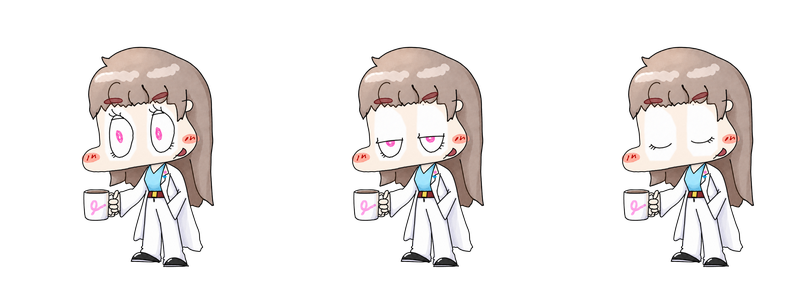
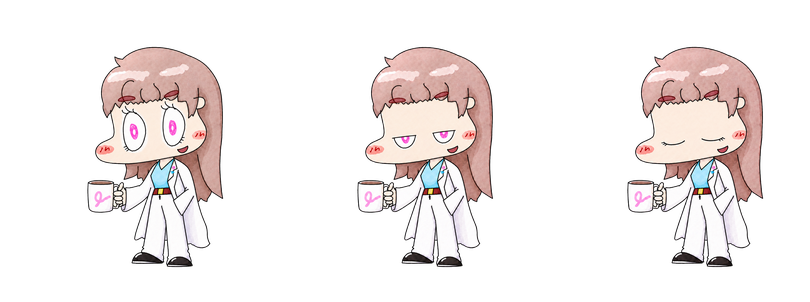
feat(bolttagu): map the v10 event sets onto Engram's display hints
sprite-pack-v10 adds seven three-frame event sets -- searching, writing,
waiting, speaking, listening, success, error -- repolishes idle and wondering
against alert's line weight, and cuts wondering from eight frames to three.

Every working hint now gets its own animation instead of collapsing onto
wondering. The mapping follows the intent the pack states in its own
event-map.json, and the timings are its sprites.json values verbatim:

  input       -> listening    generating -> speaking
  search      -> searching    thought    -> wondering
  memory      -> writing      error/provider_error -> error
  success     -> success one-shot, then idle

memory -> writing is a judgment call. Engram's memory category covers note
reads and writes alike, and search already owns "look something up"; keeping
them visually distinct is the reason both hints exist.

success is the pack's own one-shot ("play once, then idle"), which the existing
one-shot mechanism handles as-is. That retires the exit-on-provider_error hack:
failure hints now loop a real error animation, so a failure stays on screen
instead of playing once and vanishing.

Only reachable states are packed. The pack's "waiting" and "exit" have no
display hint or lifecycle hook to drive them, and a test now fails if an unused
sheet is shipped. Assets 552 KiB to 1480 KiB for eleven animation states; the
union crop is unchanged again at (87, 13, 1167, 1219), so the 270x302 cell and
feet anchor still hold.

Changed region(s): [[0.4321, 0.149, 0.6173, 0.894], [0.7716, 0.149, 0.9568, 0.894], [0.0926, 0.149, 0.2778, 0.894]]

diff --git a/tests/test_bolttagu_2d.py b/tests/test_bolttagu_2d.py
@@ -7,6 +7,7 @@ from engram_overlay.overlays.bolttagu_2d import (
     ASSET_DIR,
     BLINK_INTERVAL_MS,
     CLIPS,
+    EVENT_DURATIONS_MS,
     EYE_CELLS,
     HINT_ONESHOTS,
     IDLE_POSE,
@@ -64,14 +65,25 @@ class BolttaguResizeTests(unittest.TestCase):
 
 
 class ClipCellTests(unittest.TestCase):
-    def test_wondering_advances_at_ten_fps_and_wraps(self) -> None:
+    def test_wondering_uses_pack_durations_and_wraps(self) -> None:
         clip = CLIPS["wondering"]
-        self.assertEqual(clip.total_ms, 800)
+        self.assertEqual(clip.durations_ms, (320, 260, 320))
+        self.assertEqual(clip.total_ms, 900)
         self.assertEqual(clip_cell(clip, 0), 0)
-        self.assertEqual(clip_cell(clip, 99), 0)
-        self.assertEqual(clip_cell(clip, 100), 1)
-        self.assertEqual(clip_cell(clip, 750), 7)
-        self.assertEqual(clip_cell(clip, 800), 0)
+        self.assertEqual(clip_cell(clip, 319), 0)
+        self.assertEqual(clip_cell(clip, 320), 1)
+        self.assertEqual(clip_cell(clip, 580), 2)
+        self.assertEqual(clip_cell(clip, 900), 0)
+
+    def test_every_event_clip_matches_the_pack_timings(self) -> None:
+        for state, durations in EVENT_DURATIONS_MS.items():
+            with self.subTest(state=state):
+                self.assertEqual(CLIPS[state].durations_ms, durations)
+                self.assertEqual(CLIPS[state].cells, (0, 1, 2))
+
+    def test_only_success_and_enter_are_one_shots(self) -> None:
+        one_shots = {name for name, clip in CLIPS.items() if not clip.loop}
+        self.assertEqual(one_shots, {"success", "enter"})
 
     def test_enter_uses_pack_durations_then_retires(self) -> None:
         clip = CLIPS["enter"]
@@ -240,19 +252,41 @@ class AnimatorTests(unittest.TestCase):
         animator.resolve(800)
         self.assertEqual(rng.calls, 2)
 
-    def test_thinking_hints_run_the_wondering_loop(self) -> None:
+    def test_thought_runs_the_wondering_loop(self) -> None:
         animator = self.animator()
         animator.apply_hint("thought", 5_000)
         self.assertEqual(animator.resolve(5_000), (("wondering", 0),))
-        self.assertEqual(animator.resolve(5_300), (("wondering", 3),))
-        self.assertEqual(animator.resolve(5_800), (("wondering", 0),))
+        self.assertEqual(animator.resolve(5_320), (("wondering", 1),))
+        self.assertEqual(animator.resolve(5_900), (("wondering", 0),))
+
+    def test_each_working_hint_gets_its_own_animation(self) -> None:
+        """The pack ships a distinct set per activity; hints must not collapse onto one."""
+        expected = {
+            "search": "searching",
+            "memory": "writing",
+            "generating": "speaking",
+            "input": "listening",
+            "thought": "wondering",
+            "error": "error",
+            "provider_error": "error",
+        }
+        for hint, sheet in expected.items():
+            with self.subTest(hint=hint):
+                animator = self.animator()
+                animator.apply_hint(hint, 0)
+                self.assertEqual(animator.resolve(0), ((sheet, 0),))
+
+    def test_working_hints_are_visually_distinguishable(self) -> None:
+        sheets = {STATE_POSES[h] for h in ("search", "memory", "generating", "input", "thought")}
+        self.assertEqual(len(sheets), 5)
 
     def test_hint_restart_is_ignored_while_unchanged(self) -> None:
         animator = self.animator()
         animator.apply_hint("search", 1_000)
         animator.apply_hint("search", 1_400)
         self.assertEqual(animator.state_started_ms, 1_000)
-        self.assertEqual(animator.resolve(1_400), (("wondering", 4),))
+        # 400 ms into searching's (650, 500, 650) is still its first frame.
+        self.assertEqual(animator.resolve(1_400), (("searching", 0),))
 
     def test_unknown_hint_falls_back_to_idle(self) -> None:
         animator = self.animator()
@@ -277,12 +311,25 @@ class AnimatorTests(unittest.TestCase):
         self.assertEqual(animator.pose, IDLE_POSE)
         self.assertEqual(rng.calls, 1)
 
-    def test_provider_error_plays_the_exit_wave_then_holds_alert(self) -> None:
+    def test_both_failure_hints_loop_the_error_animation(self) -> None:
+        for hint in ("error", "provider_error"):
+            with self.subTest(hint=hint):
+                animator = self.animator()
+                animator.apply_hint(hint, 2_000)
+                self.assertEqual(animator.resolve(2_000), (("error", 0),))
+                self.assertEqual(animator.resolve(2_260), (("error", 1),))
+                # It loops rather than retiring, so the failure stays visible.
+                self.assertEqual(animator.resolve(2_980), (("error", 0),))
+
+    def test_success_plays_once_then_settles_into_idle(self) -> None:
         animator = self.animator()
-        animator.apply_hint("provider_error", 2_000)
-        self.assertEqual(animator.resolve(2_000), (("exit", 0),))
-        self.assertEqual(animator.resolve(2_450), (("exit", 2),))
-        self.assertEqual(animator.resolve(2_700), (("alert", 0),))
+        animator.apply_hint("success", 1_000)
+        self.assertEqual(animator.resolve(1_000), (("success", 0),))
+        self.assertEqual(animator.resolve(1_280), (("success", 1),))
+        self.assertEqual(animator.resolve(1_640), (("success", 2),))
+        settled = animator.resolve(2_100)
+        self.assertEqual(settled[0][0], "idle")
+        self.assertIsNone(animator.oneshot)
 
     def test_hover_and_click_use_the_alert_pose(self) -> None:
         animator = self.animator()
@@ -298,10 +345,11 @@ class AtlasTests(unittest.TestCase):
         self.assertEqual(cell, (270, 302))
         self.assertEqual(len(sheets["idle"]), len(EYE_CELLS))
         self.assertEqual(len(sheets["steam"]), STEAM_CELLS)
+        for state in EVENT_DURATIONS_MS:
+            with self.subTest(state=state):
+                self.assertEqual(len(sheets[state]), 3)
         self.assertEqual(len(sheets["alert"]), 1)
-        self.assertEqual(len(sheets["wondering"]), 8)
         self.assertEqual(len(sheets["enter"]), 3)
-        self.assertEqual(len(sheets["exit"]), 3)
         self.assertEqual(len(sheets["floor"]), 2)
         for name, frames in sheets.items():
             with self.subTest(sheet=name):
@@ -326,8 +374,24 @@ class AtlasTests(unittest.TestCase):
         self.assertEqual(metadata["feetAnchor"], [166, 267])
 
     def test_bundled_assets_stay_small(self) -> None:
+        """Guards the packing, not the artwork: the raw pack is over 30 MB."""
         total = sum(path.stat().st_size for path in ASSET_DIR.glob("*.png"))
-        self.assertLess(total, 1_500_000)
+        self.assertLess(total, 2_000_000)
+
+    def test_every_pose_and_clip_has_a_bundled_sheet(self) -> None:
+        sheets, _ = load_atlas()
+        for pose in set(STATE_POSES.values()):
+            with self.subTest(pose=pose):
+                self.assertIn(pose, sheets)
+        for name, clip in CLIPS.items():
+            with self.subTest(clip=name):
+                self.assertIn(clip.sheet, sheets)
+
+    def test_no_unused_sheet_is_shipped(self) -> None:
+        """Only what the overlay can display is packed; the pack ships more."""
+        sheets, _ = load_atlas()
+        used = {clip.sheet for clip in CLIPS.values()} | {"idle", "steam", "floor"}
+        self.assertEqual(set(sheets), used)
 
 
 class ViewTests(unittest.TestCase):

diff --git a/src/engram_overlay/overlays/bolttagu_2d.py b/src/engram_overlay/overlays/bolttagu_2d.py
@@ -30,9 +30,18 @@ ASSET_DIR = Path(__file__).parent / "assets" / "bolttagu_2d"
 
 Recipe = tuple[tuple[str, int], ...]
 
-WONDERING_FRAME_MS = 100  # sprites.json declares 10 fps for the 8-frame loop
+# Frame timings are the pack's own, from sprites.json. Every event set is three frames.
 ENTER_DURATIONS_MS = (200, 300, 220)
-EXIT_DURATIONS_MS = (220, 220, 260)
+EVENT_DURATIONS_MS: dict[str, tuple[int, int, int]] = {
+    "wondering": (320, 260, 320),
+    "searching": (650, 500, 650),
+    "writing": (320, 320, 420),
+    "speaking": (220, 220, 260),
+    "listening": (420, 420, 420),
+    "success": (280, 360, 360),
+    "error": (260, 300, 420),
+}
+LOOPING_EVENTS = ("wondering", "searching", "writing", "speaking", "listening", "error")
 
 # idle: steam is a 24-frame 10 fps loop, blink is a fixed 210 ms sequence that
 # re-arms itself 2.5-6 s after it finishes.
@@ -71,37 +80,41 @@ class Clip:
         return sum(self.durations_ms)
 
 
+def _event_clip(state: str, *, loop: bool) -> Clip:
+    return Clip(sheet=state, cells=(0, 1, 2), durations_ms=EVENT_DURATIONS_MS[state], loop=loop)
+
+
 CLIPS: dict[str, Clip] = {
     "alert": Clip(sheet="alert", cells=(0,), durations_ms=(1000,), loop=True),
-    "wondering": Clip(
-        sheet="wondering",
-        cells=tuple(range(8)),
-        durations_ms=(WONDERING_FRAME_MS,) * 8,
-        loop=True,
-    ),
     "enter": Clip(sheet="enter", cells=(0, 1, 2), durations_ms=ENTER_DURATIONS_MS, loop=False),
-    "exit": Clip(sheet="exit", cells=(0, 1, 2), durations_ms=EXIT_DURATIONS_MS, loop=False),
+    # The pack's only one-shot event: play once, then settle back to idle.
+    "success": _event_clip("success", loop=False),
+    **{state: _event_clip(state, loop=True) for state in LOOPING_EVENTS},
 }
 
 # "idle" is the layered blink+steam pose; the rest name a looping clip above.
+# The mapping follows the intent the pack states in its own event-map.json.
 IDLE_POSE = "idle"
 STATE_POSES: dict[str, str] = {
     "default": IDLE_POSE,
     "idle": IDLE_POSE,
-    "input": IDLE_POSE,
+    # The success one-shot plays over this pose and settles back into it.
     "success": IDLE_POSE,
     "hover": "alert",
     "click": "alert",
-    "error": "alert",
-    "provider_error": "alert",
-    "generating": "wondering",
-    "search": "wondering",
+    "input": "listening",
+    "generating": "speaking",
     "thought": "wondering",
-    "memory": "wondering",
+    "search": "searching",
+    # Engram's memory category covers note reads and writes alike. "writing" keeps
+    # it distinct from "search", which is the reason the two hints exist at all.
+    "memory": "writing",
+    "error": "error",
+    "provider_error": "error",
 }
 
 # A hint that warrants a one-shot the moment the renderer enters it.
-HINT_ONESHOTS: dict[str, str] = {"provider_error": "exit"}
+HINT_ONESHOTS: dict[str, str] = {"success": "success"}
 
 
 def clip_cell(clip: Clip, elapsed_ms: int) -> int | None:

diff --git a/scripts/build-bolttagu-assets.py b/scripts/build-bolttagu-assets.py
@@ -34,18 +34,28 @@ OUTPUT_DIR = REPO_ROOT / "src" / "engram_overlay" / "overlays" / "assets" / "bol
 IDLE = ("animations/idle_blink/open.png", "animations/idle_blink/half.png", "animations/idle_blink/closed.png")
 STEAM = tuple(f"animations/idle_steam/{index:02d}.png" for index in range(1, 25))
 ALERT = ("states/alert_aha.png",)
-WONDERING = tuple(f"animations/wondering/{index:02d}.png" for index in range(1, 9))
-ENTER = tuple(f"animations/enter/{index:02d}.png" for index in range(1, 4))
-EXIT = tuple(f"animations/exit/{index:02d}.png" for index in range(1, 4))
 FLOOR = ("layers/floor_base.png", "layers/floor_with_coffee.png")
 
+
+def event_frames(state: str, count: int = 3) -> tuple[str, ...]:
+    return tuple(f"animations/{state}/{index:02d}.png" for index in range(1, count + 1))
+
+
+# Only states the overlay can actually reach are packed. The pack also ships
+# "waiting" (queue/rate-limit) and "exit", which no display hint or lifecycle
+# hook drives yet -- add them here the moment something can trigger them.
 SHEETS = {
     "bolttagu-idle.png": IDLE,
     "bolttagu-steam.png": STEAM,
     "bolttagu-alert.png": ALERT,
-    "bolttagu-wondering.png": WONDERING,
-    "bolttagu-enter.png": ENTER,
-    "bolttagu-exit.png": EXIT,
+    "bolttagu-wondering.png": event_frames("wondering"),
+    "bolttagu-enter.png": event_frames("enter"),
+    "bolttagu-searching.png": event_frames("searching"),
+    "bolttagu-writing.png": event_frames("writing"),
+    "bolttagu-speaking.png": event_frames("speaking"),
+    "bolttagu-listening.png": event_frames("listening"),
+    "bolttagu-success.png": event_frames("success"),
+    "bolttagu-error.png": event_frames("error"),
     "bolttagu-floor.png": FLOOR,
 }
 

diff --git a/docs/overlays.md b/docs/overlays.md
@@ -21,16 +21,25 @@ python scripts/build-bolttagu-assets.py --pack <sprite-pack-vN>
 
 프레임은 아래에서 위로 합성하는 `(sheet, cell)` 레이어 recipe다. idle이 독립된 두 루프의 합성이라 단일 프레임으로 표현되지 않기 때문이다.
 
-| display hint | recipe |
-| --- | --- |
-| `idle`, `default`, `input`, `success` | idle 눈 상태 + 커피 김 |
-| `hover`, `click`, `error` | 아하 alert 정지 포즈 |
-| `generating`, `search`, `thought`, `memory` | wondering 8프레임 10fps 반복 |
-| `provider_error` | 뒷모습 퇴장 3프레임 one-shot 후 alert 유지 |
+매핑은 팩이 `event-map.json`에 밝혀둔 의도를 따른다. 타이밍도 팩의 `sprites.json` 값 그대로다.
 
+| display hint | 상태 | 프레임 · 타이밍 |
+| --- | --- | --- |
+| `idle`, `default` | idle | 눈 상태 3 + 김 24 레이어 합성 |
+| `success` | success → idle | 280/360/360ms **1회** 재생 후 idle 복귀 |
+| `hover`, `click` | alert | 아하 정지 포즈 |
+| `input` | listening | 420/420/420ms 반복 |
+| `generating` | speaking | 220/220/260ms 반복 |
+| `thought` | wondering | 320/260/320ms 반복 |
+| `search` | searching | 650/500/650ms 반복 |
+| `memory` | writing | 320/320/420ms 반복 |
+| `error`, `provider_error` | error | 260/300/420ms 반복 |
+
+- `memory`가 `writing`인 것은 판단이다. Engram의 memory 범주는 노트 읽기와 쓰기를 함께 덮는데, `search`가 이미 "찾아보기"를 가져갔다. 두 hint를 눈으로 구분할 수 있게 하는 것이 애초에 두 hint가 따로 있는 이유라 갈랐다.
+- 실패 상태는 **반복**한다. 한 번 재생하고 사라지면 실패가 화면에 남지 않는다.
 - 합성은 눈에 보이는 프레임이 바뀔 때만 한다. 조합을 미리 캐싱하지 않는다. 전부 캐싱하면 배율에 따라 수십 MB가 된다.
 - renderer가 열릴 때 등장 인사 3프레임(200/300/220ms)이 한 번 재생된다.
-- 종료 애니메이션은 종료 시점에 재생되지 않는다. Event API에 종료 예고가 없어 `provider_error`에 붙여둔 것이다.
+- 팩에는 `waiting`(큐·재시도·rate limit)과 `exit`도 있지만 이를 띄울 display hint나 lifecycle 훅이 없어 **패킹하지 않는다.** 트리거가 생기면 빌드 스크립트에 한 줄 추가하면 된다.
 
 ### 애니메이션
 

diff --git a/README.md b/README.md
@@ -87,7 +87,7 @@ python scripts/verify-engram.py --engram-source <engram-source> --manifest "$HOM
 
 | id | 이름 | backend | 설명 |
 | --- | --- | --- | --- |
-| `bolttagu-2d` | Bolttagu | Tk sprite sheet | 랜덤 눈깜빡임·커피 김을 합성하고 포인터 쪽으로 도는 2D 캐릭터 |
+| `bolttagu-2d` | Bolttagu | Tk sprite sheet | 검색·작성·응답·실패 등 상태별 애니메이션과 랜덤 눈깜빡임·커피 김을 합성하는 2D 캐릭터 |
 | `rabbit-2d` | Rabbit | Tk sprite grid | 손그림 토끼 5개 포즈를 의미 이벤트에 맞춰 회전 |
 | `xeyes` | Engram XEyes | Tk | mouse pointer를 따라보는 두 눈. 첫 API/입력 smoke |
 | `robot-arm` | Engram 3-Link Robot Arm | Tk | 천장에서 내려오는 iris·LED 표정의 단안 3-link arm |
